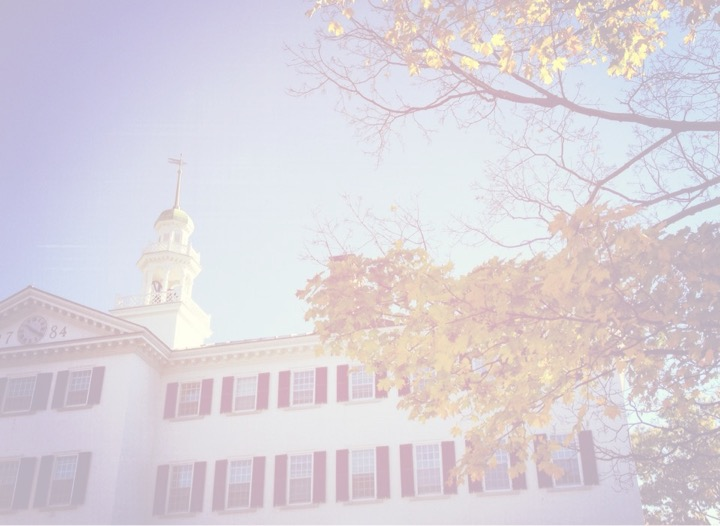
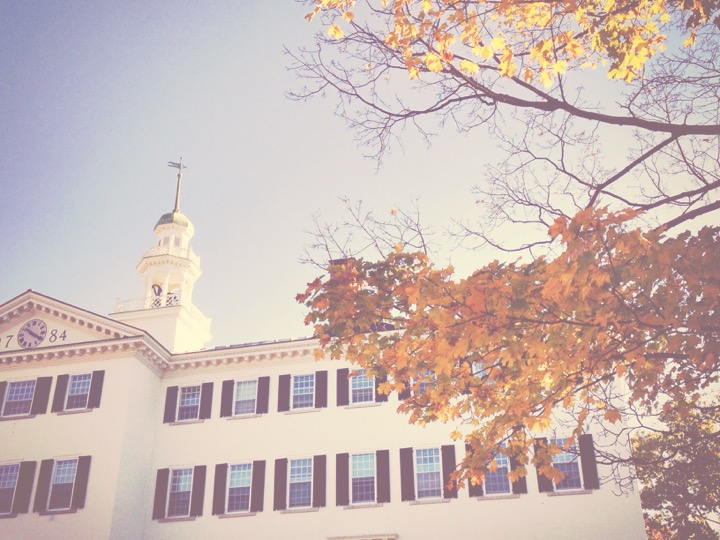
change background, footer, etc.

diff --git a/templates/user/settings.html b/templates/user/settings.html
@@ -4,42 +4,51 @@
 {% block content %}
 {% load staticfiles %}
 
-  <form class="form-horizontal" data-toggle="validator" role="form" id="settings_form" method="post" action=".">
-    {% csrf_token %}
+<link rel="stylesheet" type="text/css" href="../../static/user/css/pre-login.css">
+
+<div class="row buffer-row">
+  <hr class="snak-divider">
+</div>
+
+<div class="row buffer-row"></div>
+<div class="row buffer-row"></div>
+
+<form class="form-horizontal" data-toggle="validator" role="form" id="settings_form" method="post" action=".">
+  {% csrf_token %}
+  {% for field in settings_form %}
+  {% if field.name != "password" %}
+  <div class="form-group">
+    <div class="col-sm-4 col-sm-offset-4">
+      {{ field }}
+      <div class="help-block with-errors"></div>
+    </div>
+  </div>
+  {% endif %}
+  {% endfor %}
+  <div class="password"> 
+    <div class="col-sm-4 col-sm-offset-4">
+      Please enter your password to make settings changes:
+      <div class="help-block with-errors"></div>
+    </div>
     {% for field in settings_form %}
-      {% if field.name != "password" %}
-        <div class="form-group">
-          <div class="col-sm-4 col-sm-offset-4">
-            {{ field }}
-            <div class="help-block with-errors"></div>
-          </div>
-        </div>
-      {% endif %}
-    {% endfor %}
-    <div class="password"> 
-        <div class="col-sm-4 col-sm-offset-4">
-          Please enter your password to make settings changes:
-        <div class="help-block with-errors"></div>
-      </div>
-      {% for field in settings_form %}
-        {% if field.name == "password" %}
-          <div class="form-group">
-            <div class="col-sm-4 col-sm-offset-4">
-              {{ field }}
-            </div>
-          </div>
-        {% endif %}
-      {% endfor %}
+    {% if field.name == "password" %}
+    <div class="form-group">
       <div class="col-sm-4 col-sm-offset-4">
-        Or change your password
-        <a href="{% url 'change_password' %}">here.</a>
-      </div><br><br>
+        {{ field }}
+      </div>
     </div>
-    <div class = "signup-submit-holder col-sm-offset-4 col-sm-4">
-        <button type="button" class="btn btn-default" onClick="javascript:history.go(-1);">Cancel</button>
-        <input type="submit" id="submitS" class="btn btn-primary" value="Submit" name="college_signup">
-    </div>
-  </form>
+    {% endif %}
+    {% endfor %}
+    <div class="col-sm-4 col-sm-offset-4">
+      Or change your password
+      <a href="{% url 'change_password' %}">here.</a>
+    </div><br><br>
+  </div>
+  <div class="form-group centered">
+    <button type="button" class="btn btn-success btn-lg" onClick="javascript:history.go(-1);">Cancel</button>
+    <button type="submit" id="submitCP" class="btn btn-primary btn-lg" value="Submit" name="college_signup">Submit</button>
+  </div>
+</form>
 
 <script type="text/javascript">
 $("#password")[0].setAttribute("minlength", 6)

diff --git a/templates/user/base.html b/templates/user/base.html
@@ -28,6 +28,8 @@ Then surround all code with
 {% block extrastyle %}{% endblock %}
 {% block extra_js %}{% endblock %}
 
+
+<link rel="shortcut icon" href="../../static/app/ico/favicon.ico" />
 </head>
 
 <div class="row">
@@ -60,7 +62,7 @@ Then surround all code with
 
 <div class="row">
   <div class="col-md-12" id="footer">
-    <ul class="nav nav-pills pull-right">
+    <ul.a class="nav nav-pills pull-right">
       <li><a href="{% url 'splash' %}">Home</a></li>
       <li><a href="{% url 'aboutus' %}">About Us</a></li>
       {% if user.is_authenticated %}
@@ -70,7 +72,7 @@ Then surround all code with
       {% else %}
         <li><a href="{% url 'contactus' %}">Contact Us</a></li>
       {% endif %}
-    </ul>
+    </ul.a>
   </div>
 </div>
 

diff --git a/templates/interests/show.html b/templates/interests/show.html
@@ -31,6 +31,7 @@ function getIStrings() {
 
 {% block content %}
 {% load customtags %}
+<link rel="stylesheet" type="text/css" href="../../static/user/css/pre-login.css">
 <link rel="stylesheet" type="text/css" href="{% static 'interests/css/show.css' %}" />
 <div class="row buffer-row">
   <hr class="snak-divider">
@@ -49,7 +50,7 @@ function getIStrings() {
 	  <ul id="scrolling-list-of-interests">
 	    {% for interest in i_list.children %} 
             <div id="{{interest.id}}_jump" name="{{interest.name}}" style="hidden: true"></div>
-	    {%include "interests/interest_template.html" %}
+	    {% include "interests/interest_template.html" %}
 	    {% endfor %}
 	  </ul>
 	</div>

diff --git a/static/messages/css/chat.css b/static/messages/css/chat.css
@@ -1,3 +1,5 @@
+.dropdown-toggle:active, .open .dropdown-toggle {background:#CDD1B6 !important; color:  #5C755E !important}
+
 #inbox {
   height: 75%;
   position: relative;
@@ -10,14 +12,13 @@
 }
 
 #btn-match-me {
-  color: #626F83
-  background-color: transparent;
-  border-color:	#626F83;
-  border: 2px solid;
   width: 100%;
   margin: 0;
   position: absolute;
   bottom: 0;
+  color: white;
+  background-color: #626F83;
+  border-color: white;
 }
 
 #alert-message {
@@ -133,4 +134,7 @@ textarea {
 
 #btn-send-message {
   max-height: 100px;
+  color: white;
+  background-color: #52230C;
+  border-color: white;
 }

diff --git a/static/interests/css/show.css b/static/interests/css/show.css
@@ -89,10 +89,12 @@ ul {
   padding-left: 0;
   padding-bottom: 20px;
 }
+
 ul li {
   font-size: 28px;
   text-align: center;
 }
+
 ul ul li {
   border: none;
   text-align: left;
@@ -106,6 +108,10 @@ ul ul ul li {
 #submit-interests-btn {
   width: 90%;
   height: 40px;
+  color: #52230C;
+  background-color: transparent;
+  border-color: #52230C;
+  border: 2px solid;
 }
 
 #interest-hover-box {

diff --git a/templates/user/thankyou.html b/templates/user/thankyou.html
@@ -1,12 +1,12 @@
 {% extends "user/base.html" %}
 {% block content %}
 
+<head>
+  <link rel="stylesheet" type="text/css" href="../../static/user/css/pre-login.css">
+</head>
+
 <div class="row buffer-row">
-  <div class="col-md-2"></div>
-  <div class="col-md-8">
-    <hr class="snak-divider">
-  </div>
-  <div class="col-md-2"></div>
+  <hr class="snak-divider">
 </div>
 
 <div class="row">

diff --git a/templates/user/base_splash.html b/templates/user/base_splash.html
@@ -25,7 +25,7 @@ Then surround all code with
 <head>
   <link rel="stylesheet" type="text/css" href="{% static 'user/css/base.css' %}" />
   <script type="text/javascript" src="{% static 'user/js/validator.js' %}"></script>
-
+  <link rel="shortcut icon" href="../../static/app/ico/favicon.ico" />
 {% block extrastyle %}{% endblock %}
 {% block extra_js %}{% endblock %}
 

diff --git a/templates/user/splash.html b/templates/user/splash.html
@@ -6,8 +6,6 @@
 <head>
   <script src="../../static/js/jquery.js"></script>
 
-  <link rel="shortcut icon" href="../../static/app/ico/favicon.ico" />
-
   <link rel="stylesheet" type="text/css" href="../../static/user/css/pre-login.css">
   <link rel="stylesheet" type="text/css" href="../../static/user/css/jquery.fullPage.css"/>
 

diff --git a/static/user/css/base.css b/static/user/css/base.css
@@ -132,10 +132,12 @@ img{
 
 ul.dropdown-menu {
     background-color: #DCDCC6;
+    color: #CDD1B6;
 }
 
 ul.dropdown {
  background-color: #DCDCC6;
+  color: #CDD1B6;
 }
 
 .btn-primary {

diff --git a/snakd/settings.py b/snakd/settings.py
@@ -126,8 +126,8 @@ TEMPLATE_DIRS = [os.path.join(PROJECT_APP_ROOT, 'templates')]
 # Email confirmation stuffs
 from .email_settings import *
 EMAIL_HOST = 'smtp.gmail.com'
-EMAIL_HOST_USER = 'snakdartmouth@gmail.com'
-EMAIL_HOST_PASSWORD = 'dartmouth2015rules'
+EMAIL_HOST_USER = 'sagelyio@gmail.com'
+EMAIL_HOST_PASSWORD = 'HackedOnEaster2015'
 EMAIL_PORT = 587
 EMAIL_USE_TLS = True
 
